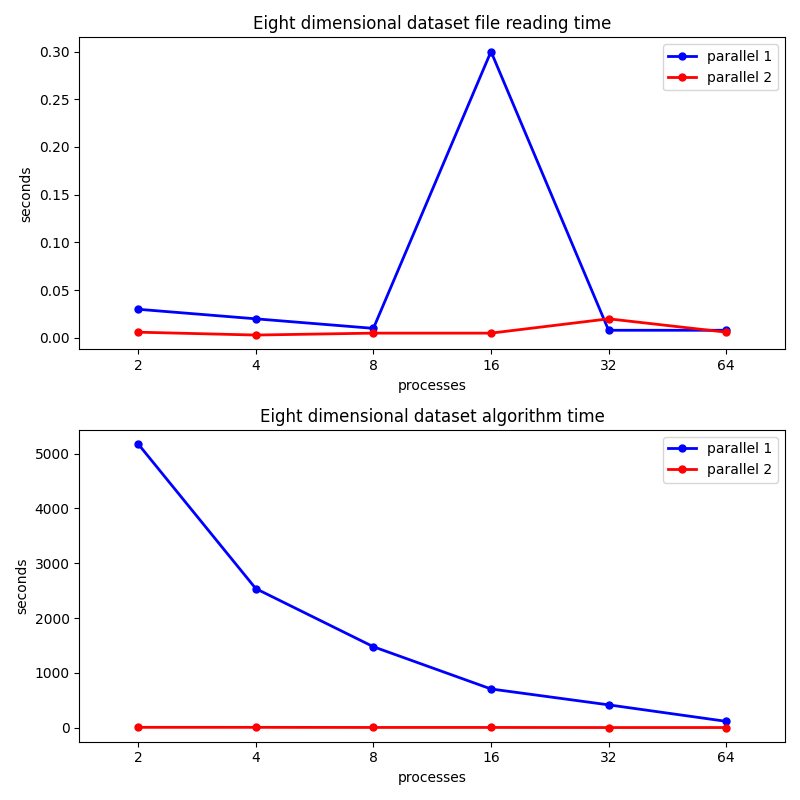
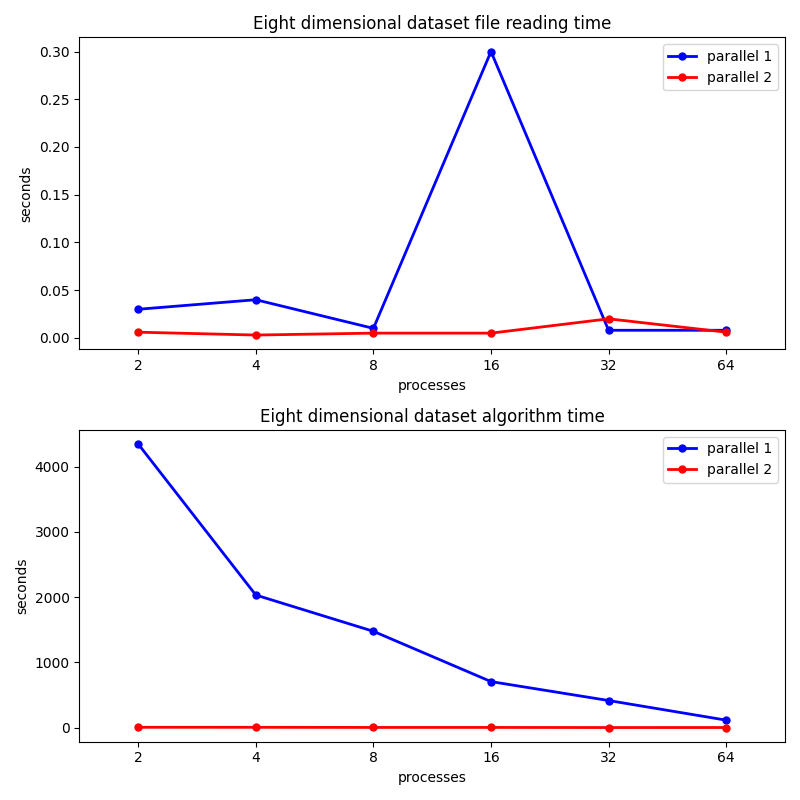
fixed plot for eight dimensions

diff --git a/data-generator/plotter.py b/data-generator/plotter.py
@@ -27,8 +27,8 @@ parallel_1_algo_6D = [304, 166, 83, 42, 20, 19]
 parallel_2_file_6D = [0.02, 0.01, 0.007, 0.01, 0.02, 0.01]
 parallel_2_algo_6D = [17, 15, 12, 7, 4, 8]
 
-parallel_1_file_8D = [0.03, 0.02, 0.01, 0.3, 0.008, 0.008]
-parallel_1_algo_8D = [5177, 2537, 1476, 705, 415, 114]
+parallel_1_file_8D = [0.03, 0.04, 0.01, 0.3, 0.008, 0.008]
+parallel_1_algo_8D = [4347, 2032, 1476, 705, 415, 114]
 
 parallel_2_file_8D = [0.006, 0.003, 0.005, 0.005, 0.02, 0.006]
 parallel_2_algo_8D = [4.6, 4.4, 2.3, 2.4, 0.7, 1]
